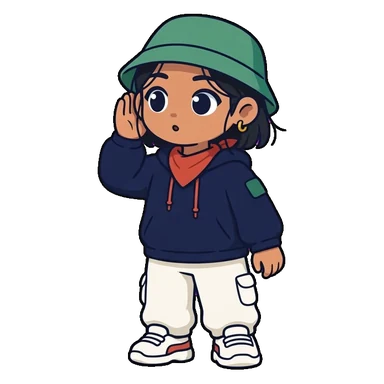
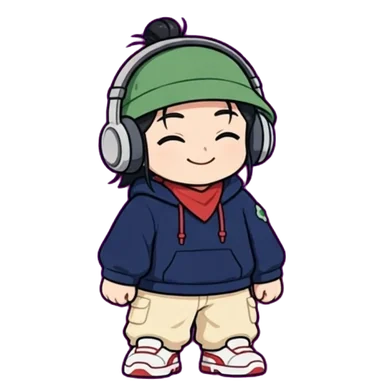
Han và Kai mỗi người 12 dáng mới (ảnh ChatGPT đợt 1–2)
- Tách nền hồng, cắt theo lưới 4×3, 384px nền trong suốt; thay cả 7 dáng cũ (hết lỗi cắt ngang eo)
  và thêm mung, boi-roi, doc, viet, ngu, thang; ảnh đại diện mới lấy phần đầu dáng động viên
- Ăn mừng xong cả ngày dùng dáng nhảy mừng, xong một ngôn ngữ dùng dáng chiến thắng
- fx.poseSrc: thiếu dáng thì dùng dáng cũ gần nghĩa nhất. SW atlas-v44

Claude-Session: https://claude.ai/code/session_01AHzGepJt93aQaJT6t7Vsc8

diff --git a/sw.js b/sw.js
@@ -4,7 +4,7 @@
    Từ đó học được ở bất cứ đâu, kể cả khi bật Chế độ máy bay.
 */
 
-const VERSION = 'atlas-v43';
+const VERSION = 'atlas-v44';
 const CORE = `${VERSION}-core`;
 const RUNTIME = `${VERSION}-runtime`;
 /* Âm thanh giọng AI: tệp không bao giờ đổi nội dung (tên là khoá của câu), nên giữ qua mọi lần cập nhật */
@@ -27,7 +27,7 @@ const CORE_FILES = [
 ];
 
 /* Tải sau, chạy ngầm: nhiều và nặng hơn nhưng không cần ngay lúc mở app */
-const EXTRA_FILES = ['data/audio.json', 'data/zh-full.json', 'data/en/placement.json', 'data/exams/index.json', 'data/en/bank.json', 'data/en/book.json', 'data/en/sentences.json', 'data/topics.json', 'data/pics/en.json', 'data/pics/zh.json', 'data/pron/zh.json', 'data/pron/en.json', 'data/pron/combos.json', 'data/pinyin-grid.json', 'img/mascot/han-chao.webp', 'img/mascot/han-giai-thich.webp', 'img/mascot/han-nghe.webp', 'img/mascot/han-khen.webp', 'img/mascot/han-dong-vien.webp', 'img/mascot/han-nghi.webp', 'img/mascot/han-avatar.webp', 'img/mascot/kai-chao.webp', 'img/mascot/kai-giai-thich.webp', 'img/mascot/kai-nghe.webp', 'img/mascot/kai-khen.webp', 'img/mascot/kai-dong-vien.webp', 'img/mascot/kai-nghi.webp', 'img/mascot/kai-avatar.webp', 'img/pron/mouth-lips.webp', 'img/pron/mouth-lips-asp.webp', 'img/pron/mouth-interdental.webp', 'img/pron/mouth-interdental-asp.webp', 'img/pron/mouth-dental.webp', 'img/pron/mouth-dental-asp.webp', 'img/pron/mouth-retroflex.webp', 'img/pron/mouth-retroflex-asp.webp', 'img/pron/mouth-palatal.webp', 'img/pron/mouth-palatal-asp.webp', 'img/pron/mouth-velar.webp', 'img/pron/mouth-velar-asp.webp', 'img/pron/lips-open.webp', 'img/pron/lips-mid.webp', 'img/pron/lips-spread.webp', 'img/pron/lips-round.webp', 'img/pron/lips-small.webp', 'img/pron/lips-roundi.webp', 'img/pron/lips-bite.webp', 'img/pron/lips-tongue.webp', 'img/pron/mouth-alveolar.webp', 'img/pron/mouth-alveolar-nasal.webp'];
+const EXTRA_FILES = ['data/audio.json', 'data/zh-full.json', 'data/en/placement.json', 'data/exams/index.json', 'data/en/bank.json', 'data/en/book.json', 'data/en/sentences.json', 'data/topics.json', 'data/pics/en.json', 'data/pics/zh.json', 'data/pron/zh.json', 'data/pron/en.json', 'data/pron/combos.json', 'data/pinyin-grid.json', 'img/mascot/han-chao.webp', 'img/mascot/han-giai-thich.webp', 'img/mascot/han-nghe.webp', 'img/mascot/han-khen.webp', 'img/mascot/han-dong-vien.webp', 'img/mascot/han-nghi.webp', 'img/mascot/han-avatar.webp', 'img/mascot/han-mung.webp', 'img/mascot/han-boi-roi.webp', 'img/mascot/han-doc.webp', 'img/mascot/han-viet.webp', 'img/mascot/han-ngu.webp', 'img/mascot/han-thang.webp', 'img/mascot/kai-chao.webp', 'img/mascot/kai-giai-thich.webp', 'img/mascot/kai-nghe.webp', 'img/mascot/kai-khen.webp', 'img/mascot/kai-dong-vien.webp', 'img/mascot/kai-nghi.webp', 'img/mascot/kai-avatar.webp', 'img/mascot/kai-mung.webp', 'img/mascot/kai-boi-roi.webp', 'img/mascot/kai-doc.webp', 'img/mascot/kai-viet.webp', 'img/mascot/kai-ngu.webp', 'img/mascot/kai-thang.webp', 'img/pron/mouth-lips.webp', 'img/pron/mouth-lips-asp.webp', 'img/pron/mouth-interdental.webp', 'img/pron/mouth-interdental-asp.webp', 'img/pron/mouth-dental.webp', 'img/pron/mouth-dental-asp.webp', 'img/pron/mouth-retroflex.webp', 'img/pron/mouth-retroflex-asp.webp', 'img/pron/mouth-palatal.webp', 'img/pron/mouth-palatal-asp.webp', 'img/pron/mouth-velar.webp', 'img/pron/mouth-velar-asp.webp', 'img/pron/lips-open.webp', 'img/pron/lips-mid.webp', 'img/pron/lips-spread.webp', 'img/pron/lips-round.webp', 'img/pron/lips-small.webp', 'img/pron/lips-roundi.webp', 'img/pron/lips-bite.webp', 'img/pron/lips-tongue.webp', 'img/pron/mouth-alveolar.webp', 'img/pron/mouth-alveolar-nasal.webp'];
 
 /* Bỏ qua bộ nhớ đệm HTTP của trình duyệt (GitHub Pages giữ 10 phút): nếu không, bản mới của app
    có thể lưu lẫn file CSS cũ với file JS mới, vỡ giao diện tới tận lần cập nhật sau. */

diff --git a/js/fx.js b/js/fx.js
@@ -97,6 +97,16 @@ export function confetti({ count = 110, duration = 1700, y = 0.32 } = {}) {
   requestAnimationFrame(frame);
 }
 
+/* ---------- dáng nhân vật ----------
+   Han và Kai đủ 12 dáng (ảnh ChatGPT đợt 1–2); nhân vật nào thiếu dáng thì dùng dáng cũ gần nghĩa nhất. */
+const ALL_POSES = ['mung', 'khen', 'nghi', 'boi-roi', 'dong-vien', 'giai-thich', 'doc', 'viet', 'nghe', 'ngu', 'chao', 'thang'];
+const NEW_POSES = { han: new Set(ALL_POSES), kai: new Set(ALL_POSES) };
+const OLD = { mung: 'khen', thang: 'khen', 'boi-roi': 'nghi', doc: 'giai-thich', viet: 'giai-thich', ngu: 'nghi' };
+export function poseSrc(who, pose) {
+  const p = NEW_POSES[who]?.has(pose) || !OLD[pose] ? pose : OLD[pose];
+  return `img/mascot/${who}-${p}.webp`;
+}
+
 /* ---------- thẻ ăn mừng (không chặn màn hình) ---------- */
 let current = null;
 let shownAt = 0;
@@ -111,7 +121,7 @@ export function celebrate(opts = {}) {
   closeCard();
   const pose = opts.pose || 'khen';
   let pic;
-  if (opts.who) pic = h('img.fx-ava', { src: `img/mascot/${opts.who}-${pose}.webp`, alt: '' });
+  if (opts.who) pic = h('img.fx-ava', { src: poseSrc(opts.who, pose), alt: '' });
   else { pic = h('span.fx-art'); pic.innerHTML = artSvg(opts.art || 'party-popper', 64); }
   const card = h(`div.fx-card${opts.big ? '.big' : ''}`, { role: 'status' },
     pic,

diff --git a/js/app.js b/js/app.js
@@ -303,9 +303,9 @@ function listenCelebrations() {
           if (!next) {
             const langs = plan.settings.langs || 'both';
             const parts = [langs !== 'zh' ? `Tiếng Anh ${m.en} phút` : null, langs !== 'en' ? `Tiếng Trung ${m.zh} phút` : null].filter(Boolean);
-            fx.celebrate({ big: true, who, title: 'Xong hết việc hôm nay!', sub: `${parts.join(' · ')}. Mai gặp lại nhé.` });
+            fx.celebrate({ big: true, who, pose: 'mung', title: 'Xong hết việc hôm nay!', sub: `${parts.join(' · ')}. Mai gặp lại nhé.` });
           } else if (step.lang !== 'all' && g.done === g.steps.length) {
-            fx.celebrate({ who, title: `Xong ${LANG_NAME[step.lang].toLowerCase()} hôm nay!`, sub: `${g.steps.length}/${g.steps.length} việc · ${g.mins} phút`, next: { title: next.title, href: next.href } });
+            fx.celebrate({ who, pose: 'thang', title: `Xong ${LANG_NAME[step.lang].toLowerCase()} hôm nay!`, sub: `${g.steps.length}/${g.steps.length} việc · ${g.mins} phút`, next: { title: next.title, href: next.href } });
           } else {
             fx.celebrate({ who, title: `Xong: ${step.title}`, sub: `${LANG_NAME[step.lang]}: ${g.done}/${g.steps.length} việc hôm nay`, next: { title: next.title, href: next.href, label: 'Tiếp' } });
           }
